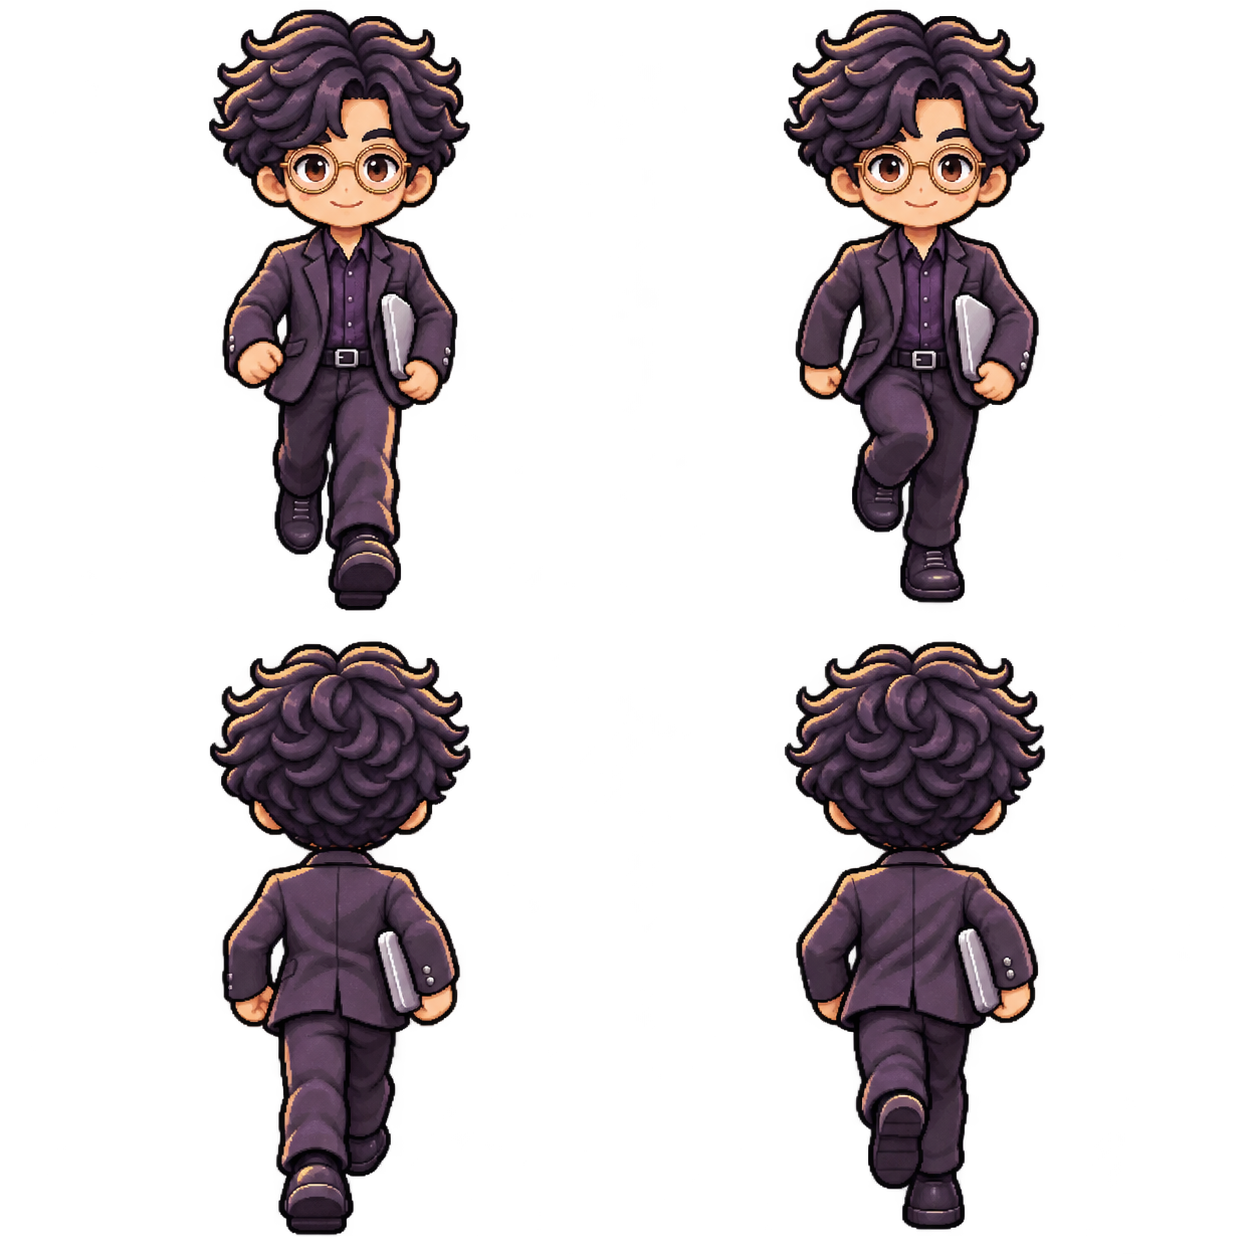
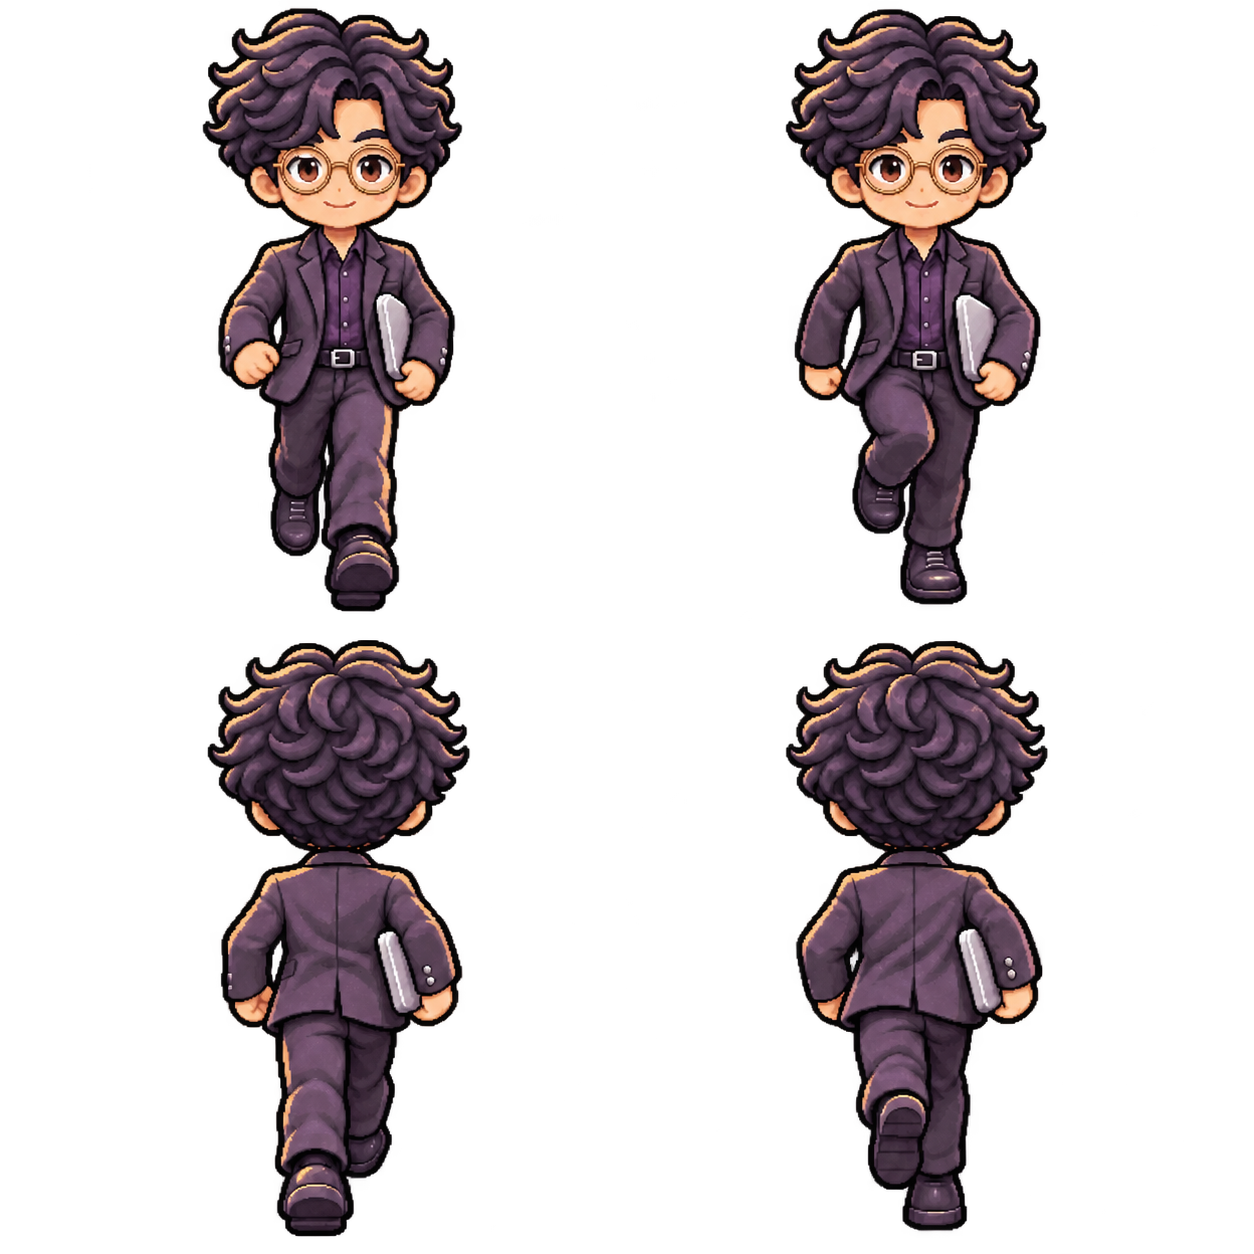
Remove sprite transparency box

diff --git a/src/styles.css b/src/styles.css
@@ -915,6 +915,7 @@ h1, h2, h3, h4, h5, h6 { font-family: var(--font-display); font-weight: 500; }
   isolation: isolate;
 }
 .playground-stage.is-game-focused { box-shadow: inset 0 0 0 2px rgba(181,155,255,.68), inset 0 0 34px rgba(115,87,255,.08); }
+.playground-alpha-filter { position: absolute; width: 0; height: 0; overflow: hidden; pointer-events: none; }
 .playground-scene-plane { position: absolute; z-index: 0; overflow: visible; transform-origin: 50% 60%; animation: playground-world-enter 600ms steps(6, end) both, playground-world-drift 18s 600ms steps(90, end) infinite alternate; will-change: transform; }
 .playground-world, .playground-foreground-object { position: absolute; inset: 0; background: linear-gradient(180deg, rgba(28,24,18,.015), rgba(28,24,18,.12)), var(--playground-background) center / 100% 100% no-repeat; }
 .playground-world { z-index: 0; }
@@ -993,7 +994,7 @@ h1, h2, h3, h4, h5, h6 { font-family: var(--font-display); font-weight: 500; }
   height: 100%;
   background: var(--alex-side-sprite) 0 0 / 200% 200% no-repeat;
   image-rendering: pixelated;
-  filter: drop-shadow(9px 11px 6px rgba(23,16,29,.32));
+  filter: url("#pixel-alex-alpha-cleanup") drop-shadow(9px 11px 6px rgba(23,16,29,.32));
   transform: scaleX(var(--alex-facing, 1));
   transform-origin: 50% 92%;
   animation: pixel-alex-idle 1.6s steps(2, end) infinite;
@@ -1001,8 +1002,9 @@ h1, h2, h3, h4, h5, h6 { font-family: var(--font-display); font-weight: 500; }
 }
 .playground-pixel-hub[data-facing="front"] .playground-character-sprite { background-image: var(--alex-vertical-sprite); background-position: 0 0; transform: scaleX(1); }
 .playground-pixel-hub[data-facing="back"] .playground-character-sprite { background-image: var(--alex-vertical-sprite); background-position: 0 100%; transform: scaleX(1); }
-.playground-pixel-character:hover .playground-character-sprite, .playground-pixel-character:focus-visible .playground-character-sprite { filter: drop-shadow(9px 14px 7px rgba(23,16,29,.38)) saturate(1.12); }
-.playground-pixel-character:focus-visible { outline: 2px dashed rgba(255,248,232,.95); outline-offset: 8px; }
+.playground-pixel-character:hover .playground-character-sprite, .playground-pixel-character:focus-visible .playground-character-sprite { filter: url("#pixel-alex-alpha-cleanup") drop-shadow(9px 14px 7px rgba(23,16,29,.38)) saturate(1.12); }
+.playground-pixel-character:focus-visible { outline: 0; }
+.playground-pixel-character:focus-visible .playground-character-sprite { filter: url("#pixel-alex-alpha-cleanup") drop-shadow(0 0 5px rgba(255,248,232,.92)) drop-shadow(9px 14px 7px rgba(23,16,29,.38)) saturate(1.12); }
 .playground-pixel-shadow {
   position: absolute;
   z-index: 1;

diff --git a/src/App.jsx b/src/App.jsx
@@ -1823,6 +1823,15 @@ function PlaygroundPage({ clock, navigate, embedded = false }) {
           }
         }}
       >
+        <svg className="playground-alpha-filter" aria-hidden="true" focusable="false">
+          <defs>
+            <filter id="pixel-alex-alpha-cleanup" x="-20%" y="-20%" width="140%" height="140%" colorInterpolationFilters="sRGB">
+              <feComponentTransfer>
+                <feFuncA type="linear" slope="1.06" intercept="-0.03" />
+              </feComponentTransfer>
+            </filter>
+          </defs>
+        </svg>
         <div className="playground-scene-plane" key={activeScene.id} ref={scenePlane} style={planeStyle}>
           <div className="playground-world" aria-hidden="true" />
           <div className="playground-cloud-layer" aria-hidden="true"><i /><i /><i /><i /></div>
